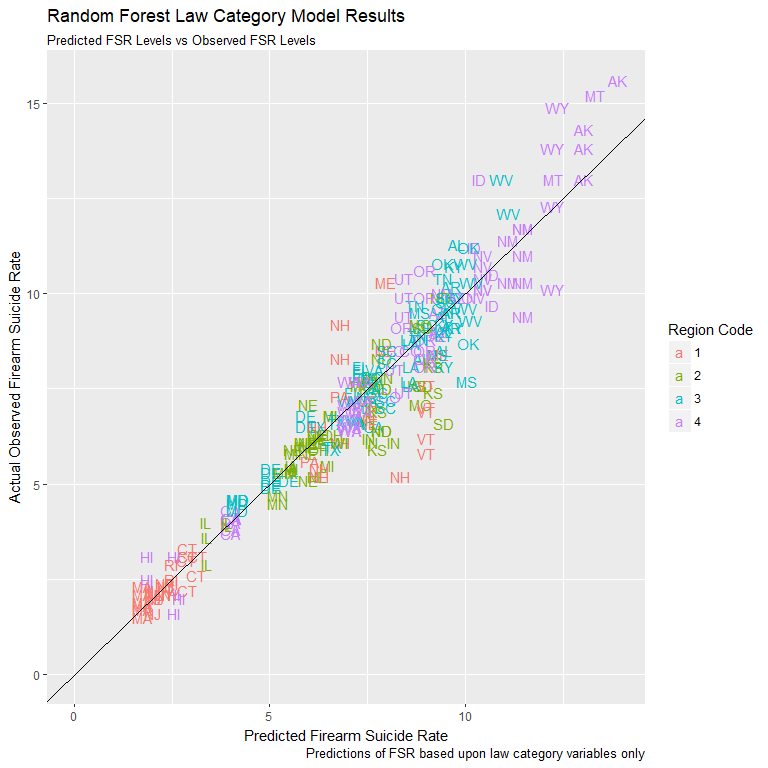
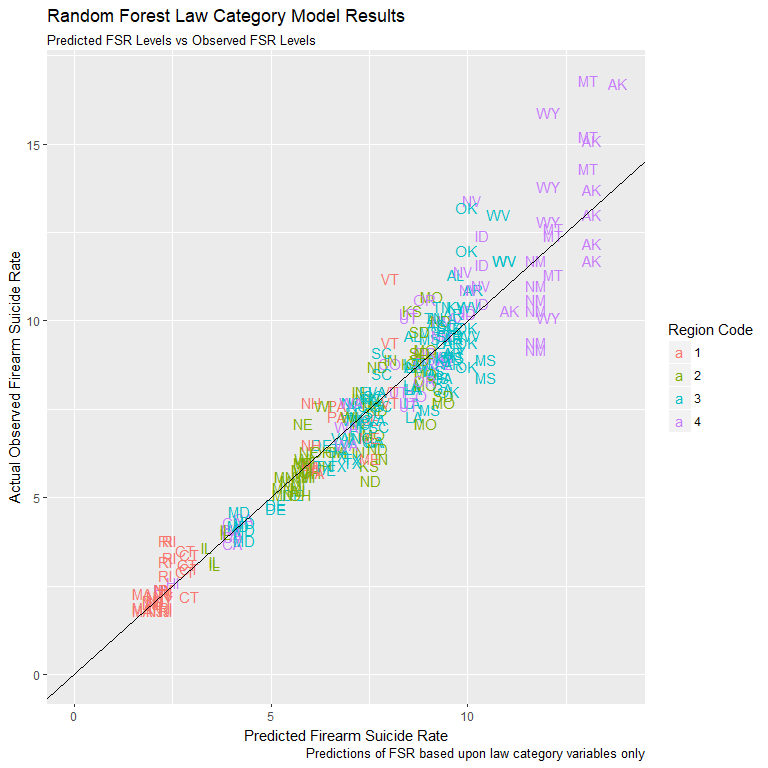
Added final machine learning element, changed train/test method

diff --git a/07_Capstone_Report.md b/07_Capstone_Report.md
@@ -325,11 +325,10 @@ Two methods were considered for dividing the train and test data. It was decided
 
 ``` r
 # Split into train & test data sets at 70/30 ratio
-# gp <- runif(nrow(mach_data_df))
-# train_df <- mach_data_df[gp < 0.70, ]
-# test_df <- mach_data_df[gp >= 0.70, ]
-# dim(train_df)
-# dim(test_df)
+# set.seed(123) 
+# sample <- sample.int(n = nrow(mach_data_df), size = floor(0.70 * nrow(mach_data_df)), replace = F)
+# train_df <- mach_data_df[sample, ]
+# test_df  <- mach_data_df[-sample, ]
 
 # # Use 2013 as train and balance as test
 train_df <- mach_data_df %>% filter(year == 2013)
@@ -423,7 +422,9 @@ Testing predictions against observed values confirms the 0.825 r-squared value, 
 
 ### Check Model Residuals vs Fitted and Q-Q Plots
 
-The residual and Q-Q plots indicate reasonable distribution of model error, although the data starts to skew above expected levels at higher values. ![](07_Capstone_Report_files/figure-markdown_github/base_train_resid_qq-1.png)
+The residual and Q-Q plots indicate reasonable distribution of model error, although the data starts to skew above expected levels at higher values.
+
+![](07_Capstone_Report_files/figure-markdown_github/base_train_resid_qq-1.png)
 
 ### Check Identified Outliers
 
@@ -478,7 +479,9 @@ Checking the prediction values against the target value confirms the 0.77 r-squa
 
 ### Check Residuals vs Fitted and Q-Q Plots
 
-The Residual vs Fitted plots is more balanced compared to the training data as one would expect given the much larger data set. Still, both the residual and Q-Q plots confirm the skewing of observed values at higher FSR levels. ![](07_Capstone_Report_files/figure-markdown_github/base_test_resid_qq-1.png)
+The Residual vs Fitted plots is more balanced compared to the training data as one would expect given the much larger data set. Still, both the residual and Q-Q plots confirm the skewing of observed values at higher FSR levels.
+
+![](07_Capstone_Report_files/figure-markdown_github/base_test_resid_qq-1.png)
 
 ### Check Identified Outliers
 
@@ -504,14 +507,15 @@ outcome <- c("gun_rate")
 var_names <- law_cats
 
 # Split into train & test data sets at 70/30 ratio
-gp <- runif(nrow(rf_data_df))
-rf_train <- rf_data_df[gp < 0.70, ]
-rf_test <- rf_data_df[gp >= 0.70, ]
+set.seed(123) 
+sample <- sample.int(n = nrow(rf_data_df), size = floor(0.70 * nrow(rf_data_df)), replace = F)
+rf_train <- rf_data_df[sample, ]
+rf_test  <- rf_data_df[-sample, ]
 ```
 
 ### Create Formula and Fit Model
 
-Model r2 and RMSE equivalent (Out of Basket Prediction Error) are displayed below.
+Model r2 of 0.88 and RMSE equivalent (Out of Basket Prediction Error) of 1.12 on the training data represent a major improvement on the previous manual regression model.
 
 ``` r
 # Create formula
@@ -538,26 +542,16 @@ model_rf
     ## Mtry:                             3 
     ## Target node size:                 5 
     ## Variable importance mode:         none 
-    ## OOB prediction error (MSE):       1.17 
+    ## OOB prediction error (MSE):       1.12 
     ## R squared (OOB):                  0.88
 
 ### Apply Law Category Model to Test Data
 
-Resulting r2 and RMSE are displayed below. The plot illustrates the tight grouping of values along the perfect correlation line. FSR at levels at or above 12 still prove difficult to predict.
+Resulting r2 of 0.904 and RMSE of 0.945 actually improve upon performance against the training data. The plot below illustrates the tight grouping of values along the ideal correlation line. FSR levels at or above 12 still prove difficult to predict.
 
-``` r
-rf_test$predict <- predict(model_rf, rf_test)$predictions
+    ## [1] 0.904
 
-cor(rf_test$gun_rate, rf_test$predict)^2
-```
-
-    ## [1] 0.906
-
-``` r
-sqrt(mean((rf_test$predict - rf_test$gun_rate)^2))
-```
-
-    ## [1] 0.882
+    ## [1] 0.945
 
 ![](07_Capstone_Report_files/figure-markdown_github/rf_ggplot_test-1.png)
 
@@ -569,16 +563,16 @@ The plot shows the high degree of accuracy derived from the random forest model.
 
 ### Conclusions from Random Forest Model Performance
 
-In the source R-code available [here](https://github.com/datahoundz/Springboard_Data_Science/blob/master/04_mach_learn.R), a second random forest model is run using individual law variables with slightly higher performance levels. Both of these models suggest that specific legislation classes offer the possibility of impacting firearm suicide rates. Based upon this finding, gradient boost models will be utilized to identify the critical law categories and laws of most interest to legislators and public health professionals.
+In the source R-code available [here](https://github.com/datahoundz/Springboard_Data_Science/blob/master/04_mach_learn.R), a second random forest model is run using individual law variables with slightly higher performance levels. Both of these models suggest that specific legislation classes offer the possibility of impacting firearm suicide rates. Based upon this finding, gradient boost models will be utilized to identify the critical law categories and individual laws of most interest to legislators and public health professionals.
 
 Gradient Boost Modeling to Identify Critical Law Variables
 ----------------------------------------------------------
 
-Gradient boost modeling offers the performance benefits of random forest models with the added benefit of getting to **peak under the hood to view the variables of greatest imapct** to the model. With that in mind, a model will be created utilizing all 132 law variables to assess those most likely to be predictive of a state's firearm suicide rate. It follows that these laws could have the greatest potential effect in reducing firearm suicides.
+Gradient boost modeling offers the performance benefits of random forest models with the added benefit of getting to peak under the hood to view the variables of greatest impact to the model. With that in mind, a model will be created utilizing all 132 law variables to assess those most likely to be predictive of a state's firearm suicide rate. It follows that these laws could have the greatest potential effect in reducing firearm suicides.
 
 ### Preliminary Gradient Boost Models
 
-In the interest of limitations of time and space, only one gradient boost model utilizing all 132 law variables will be presented here. However, the [source R-code]() includes preliminary models that first assessed the 14 law category variables and then investigated the individual laws within those categories. This process found significant overlap between the final 132-variable model and the preliminary models.
+In light of limitations of time and space, only one gradient boost model utilizing all 132 law variables will be presented here. However, the [source R-code]() includes preliminary models that first assessed the 14 law category variables and then investigated the individual laws within those categories. This process found significant overlap between the final 132-variable model and the preliminary models.
 
 ### Create Table and Split Into Train and Test Data Sets
 
@@ -590,28 +584,28 @@ gb_all_df <- sui_method_df %>%
   left_join(state_laws_df, by = join_key) %>%
   select(state, year, fsr, c(law_vars))
 
-
 # Split into train & test data sets at 70/30 ratio
-gp <- runif(nrow(gb_all_df))
-gb_all_train <- gb_all_df[gp < 0.70, ]
-gb_all_test <- gb_all_df[gp >= 0.70, ]
+set.seed(123) 
+sample <- sample.int(n = nrow(gb_all_df), size = floor(0.70 * nrow(gb_all_df)), replace = F)
+gb_all_train <- gb_all_df[sample, ]
+gb_all_test  <- gb_all_df[-sample, ]
 ```
 
 ### Treat Data for Use with xgboost Package
 
-The xgboost package requires that all variables be numeric so the "treatment plan" using the vtreat package performs all the ncessary conversions. This data set did not include any categorical variables, but vtreat would address those items as well if they existed.
+The xgboost package requires that all variables be numeric. The "treatment plan" below uses the vtreat package to make all necessary conversions. This data set did not include any categorical variables, but vtreat would address those items as well if they existed.
 
 ``` r
 # Create the treatment plan
 # treat_plan <- designTreatmentsZ(gb_all_train, law_vars)
-# Line above commented out to prevent large output, run above w/o displaying
+# Line above commented out to prevent large output, run w/o displaying
 
-# Examine scoreFrame
+# Create scoreFrame
 scoreFrame <- treat_plan %>%
   use_series(scoreFrame) %>%
   select(varName, origName, code)
 
-# We only want the rows with codes "clean" or "lev"
+# Retain rows with "clean" and "lev"
 newvars <- scoreFrame %>%
   filter(code %in% c("clean", "lev")) %>%
   use_series(varName)
@@ -623,7 +617,7 @@ gb_all_train_treat <- prepare(treat_plan, gb_all_train, varRestriction = newvars
 gb_all_test_treat <- prepare(treat_plan, gb_all_test, varRestriction = newvars)
 ```
 
-### Use Cross-Validation to Determine Best Number of Trees
+### Use Cross-Validation to Optimize Number of Trees
 
 ``` r
 # Run xgb.cv cross validation on gb_all_train
@@ -643,57 +637,58 @@ eval_log
 ```
 
     ##    iter train_rmse_mean train_rmse_std test_rmse_mean test_rmse_std
-    ## 1     1           5.346        0.03145          5.351         0.163
-    ## 2     2           3.902        0.02317          3.921         0.158
-    ## 3     3           2.888        0.01748          2.924         0.142
-    ## 4     4           2.189        0.01872          2.241         0.132
-    ## 5     5           1.720        0.02385          1.791         0.139
-    ## 6     6           1.403        0.02352          1.486         0.144
-    ## 7     7           1.195        0.01928          1.295         0.148
-    ## 8     8           1.046        0.01437          1.166         0.140
-    ## 9     9           0.943        0.01990          1.087         0.139
-    ## 10   10           0.871        0.01445          1.036         0.140
-    ## 11   11           0.819        0.01167          0.995         0.137
-    ## 12   12           0.784        0.00891          0.970         0.139
-    ## 13   13           0.755        0.01258          0.946         0.127
-    ## 14   14           0.735        0.01582          0.933         0.121
-    ## 15   15           0.719        0.01775          0.921         0.118
-    ## 16   16           0.707        0.01965          0.916         0.119
-    ## 17   17           0.700        0.01784          0.912         0.120
-    ## 18   18           0.693        0.01806          0.911         0.121
-    ## 19   19           0.687        0.01779          0.911         0.122
-    ## 20   20           0.682        0.01777          0.910         0.124
-    ## 21   21           0.677        0.01733          0.908         0.122
-    ## 22   22           0.674        0.01888          0.906         0.123
-    ## 23   23           0.670        0.01876          0.906         0.121
-    ## 24   24           0.667        0.01842          0.905         0.123
-    ## 25   25           0.664        0.01815          0.905         0.123
-    ## 26   26           0.662        0.01804          0.905         0.123
-    ## 27   27           0.659        0.01781          0.906         0.122
-    ## 28   28           0.658        0.01776          0.906         0.120
-    ## 29   29           0.656        0.01812          0.907         0.120
-    ## 30   30           0.654        0.01795          0.907         0.118
-    ## 31   31           0.653        0.01783          0.907         0.117
-    ## 32   32           0.652        0.01805          0.907         0.117
-    ## 33   33           0.651        0.01812          0.906         0.116
-    ## 34   34           0.650        0.01804          0.907         0.116
-    ## 35   35           0.649        0.01831          0.906         0.115
+    ## 1     1           5.393        0.02247          5.392        0.0902
+    ## 2     2           3.919        0.01616          3.938        0.0404
+    ## 3     3           2.899        0.01096          2.942        0.0540
+    ## 4     4           2.200        0.00547          2.252        0.0648
+    ## 5     5           1.727        0.01276          1.806        0.0851
+    ## 6     6           1.409        0.01863          1.510        0.0948
+    ## 7     7           1.186        0.00630          1.315        0.0882
+    ## 8     8           1.042        0.01142          1.191        0.0870
+    ## 9     9           0.955        0.00872          1.109        0.0785
+    ## 10   10           0.877        0.00750          1.049        0.0710
+    ## 11   11           0.837        0.00858          1.017        0.0677
+    ## 12   12           0.801        0.00836          0.993        0.0650
+    ## 13   13           0.781        0.00807          0.975        0.0591
+    ## 14   14           0.763        0.00934          0.959        0.0535
+    ## 15   15           0.747        0.00982          0.952        0.0483
+    ## 16   16           0.734        0.00958          0.944        0.0418
+    ## 17   17           0.726        0.00998          0.939        0.0397
+    ## 18   18           0.718        0.01029          0.936        0.0383
+    ## 19   19           0.708        0.00878          0.929        0.0357
+    ## 20   20           0.699        0.00930          0.928        0.0393
+    ## 21   21           0.695        0.01027          0.925        0.0407
+    ## 22   22           0.690        0.01026          0.923        0.0412
+    ## 23   23           0.687        0.01011          0.922        0.0402
+    ## 24   24           0.684        0.00971          0.920        0.0413
+    ## 25   25           0.680        0.00848          0.917        0.0398
+    ## 26   26           0.678        0.00927          0.916        0.0406
+    ## 27   27           0.676        0.01006          0.918        0.0419
+    ## 28   28           0.673        0.01063          0.917        0.0416
+    ## 29   29           0.672        0.01052          0.917        0.0426
+    ## 30   30           0.670        0.01097          0.918        0.0456
+    ## 31   31           0.669        0.01103          0.919        0.0460
+    ## 32   32           0.667        0.01031          0.917        0.0463
+    ## 33   33           0.666        0.01072          0.919        0.0479
+    ## 34   34           0.665        0.01045          0.918        0.0482
+    ## 35   35           0.664        0.01062          0.918        0.0485
+    ## 36   36           0.663        0.01035          0.917        0.0490
 
 ``` r
-# Determine number of trees to minimize training and test error
+# Select number of trees to minimize training and test error, use std as tie breaker
 eval_log %>% 
   summarize(ntrees.train = which.min(train_rmse_mean), ntrees.test  = which.min(test_rmse_mean)) 
 ```
 
     ##   ntrees.train ntrees.test
-    ## 1           35          25
+    ## 1           36          26
 
 ### Fit Gradient Boost Model and Apply to Test Data
 
 ``` r
 gb_all_model <- xgboost(data = as.matrix(gb_all_train_treat),
                         label = gb_all_train$fsr,
-                        nrounds = 25,         # Enter number of trees from above
+                        nrounds = 26,         # Enter number of trees from above
                         objective = "reg:linear",
                         eta = 0.3,
                         depth = 6,
@@ -709,10 +704,104 @@ gb_all_test$pred <- predict(gb_all_model, as.matrix(gb_all_test_treat))
 
 ### Model r2 and RMSE
 
-    ## [1] 0.903
+At an r2 of 0.923 and an RMSE of 0.850, the gradient boost model outperforms the earlier random forest model. The gain curve plot below is virtually identical to the random forest performance as well.
 
-    ## [1] 0.95
+    ## [1] 0.923
+
+    ## [1] 0.85
 
 ### Gradient Boost Model Gain Curve Plot
 
 ![](07_Capstone_Report_files/figure-markdown_github/gb_gain_curve-1.png)
+
+### Assess Critical Variables to Gradient Boost Model
+
+The gradient boost model, using only law categories, far outperforms the manually created regression model. Critical variables will be evaluated using a blend of *gain* (increase in accuracy) and *cover* (number of trees effected) measures from the resulting importance table.
+
+    ##                  Feature    Gain   Cover Frequency gain_cover
+    ## 1                permith 0.45154 0.03427    0.0220   0.015474
+    ## 2       opencarrypermith 0.09712 0.03901    0.0242   0.003789
+    ## 3                capuses 0.09108 0.03154    0.0132   0.002873
+    ## 4               mayissue 0.05477 0.02582    0.0198   0.001414
+    ## 5                dealerh 0.03442 0.02286    0.0264   0.000787
+    ## 6      ccrenewbackground 0.01372 0.05443    0.0319   0.000747
+    ## 7        permitconcealed 0.02046 0.02928    0.0242   0.000599
+    ## 8                 felony 0.00855 0.05281    0.0352   0.000451
+    ## 9         recordsdealerh 0.02133 0.01954    0.0319   0.000417
+    ## 10      age18longgunsale 0.00866 0.04003    0.0308   0.000346
+    ## 11                 nosyg 0.00676 0.04646    0.0407   0.000314
+    ## 12 traffickingprohibited 0.02240 0.01312    0.0077   0.000294
+    ## 13              immunity 0.00942 0.03089    0.0396   0.000291
+    ## 14               college 0.00681 0.04179    0.0187   0.000285
+    ## 15      ccbackgroundnics 0.00908 0.02941    0.0407   0.000267
+    ## 16          alctreatment 0.00935 0.02851    0.0286   0.000267
+    ## 17       incidentremoval 0.01193 0.02100    0.0253   0.000251
+    ## 18            elementary 0.02546 0.00778    0.0242   0.000198
+    ## 19         invcommitment 0.00881 0.02232    0.0319   0.000197
+    ## 20   age18longgunpossess 0.00627 0.01903    0.0165   0.000119
+
+### Build Regression Model Using Top Variables from Gradient Boost
+
+A base regression model was created using the top ten "Gain X Cover" variables from the gradient boost model. Felony and age18longgunsale variables were removed due to lack of impact on model. The resulting regression model (below) accounted for 68.7% of variation in firearm suicide rate in the training data set.
+
+``` r
+gb_critical <- lm(fsr ~ permith + opencarrypermith + capuses + mayissue + dealerh +
+                  ccrenewbackground + permitconcealed + recordsdealerh, gb_all_train)
+summary(gb_critical)
+```
+
+    ## 
+    ## Call:
+    ## lm(formula = fsr ~ permith + opencarrypermith + capuses + mayissue + 
+    ##     dealerh + ccrenewbackground + permitconcealed + recordsdealerh, 
+    ##     data = gb_all_train)
+    ## 
+    ## Residuals:
+    ##    Min     1Q Median     3Q    Max 
+    ## -5.261 -1.028 -0.193  0.931  7.275 
+    ## 
+    ## Coefficients:
+    ##                   Estimate Std. Error t value             Pr(>|t|)    
+    ## (Intercept)         11.726      0.291   40.26 < 0.0000000000000002 ***
+    ## permith             -1.503      0.217   -6.91       0.000000000012 ***
+    ## opencarrypermith    -0.710      0.168   -4.22       0.000028607280 ***
+    ## capuses             -1.625      0.191   -8.51 < 0.0000000000000002 ***
+    ## mayissue            -1.261      0.217   -5.80       0.000000010800 ***
+    ## dealerh             -1.107      0.187   -5.92       0.000000005303 ***
+    ## ccrenewbackground   -0.934      0.164   -5.69       0.000000019460 ***
+    ## permitconcealed     -1.667      0.298   -5.59       0.000000034134 ***
+    ## recordsdealerh      -0.664      0.160   -4.15       0.000037850568 ***
+    ## ---
+    ## Signif. codes:  0 '***' 0.001 '**' 0.01 '*' 0.05 '.' 0.1 ' ' 1
+    ## 
+    ## Residual standard error: 1.72 on 621 degrees of freedom
+    ## Multiple R-squared:  0.687,  Adjusted R-squared:  0.683 
+    ## F-statistic:  170 on 8 and 621 DF,  p-value: <0.0000000000000002
+
+### Apply Manual Regression Model to Test Data
+
+``` r
+gb_all_test$man_pred <- predict(gb_critical, gb_all_test)
+```
+
+### Evaluate Gradient Boost Based Manual Regression Model
+
+![](07_Capstone_Report_files/figure-markdown_github/gb_man_ggplot-1.png)
+
+### Manual Law Variable Model Performance
+
+The gradient boost inspired manual regression model accounts for 70.9% of the variation in FSR with an RMSE of 1.65. This performance was achieved using only eight individual law variables. The earlier regression model that included gun ownership and region West accounted for 77.0% of the variation in the FSR with an RMSE of 1.68.
+
+    ## [1] 0.709
+
+    ## [1] 1.65
+
+### Residual & Q-Q Plot for Manual Law Variable Regression
+
+The resulting residual and Q-Q plots reflect the same challenges that faced the previous regression model at the higher end values.
+
+![](07_Capstone_Report_files/figure-markdown_github/gb_man_resid_qq-1.png)
+
+### Manual Regression Model Based on Gradient Boost Gain Curve Plot
+
+![](07_Capstone_Report_files/figure-markdown_github/gb_man_gain_curve-1.png)
